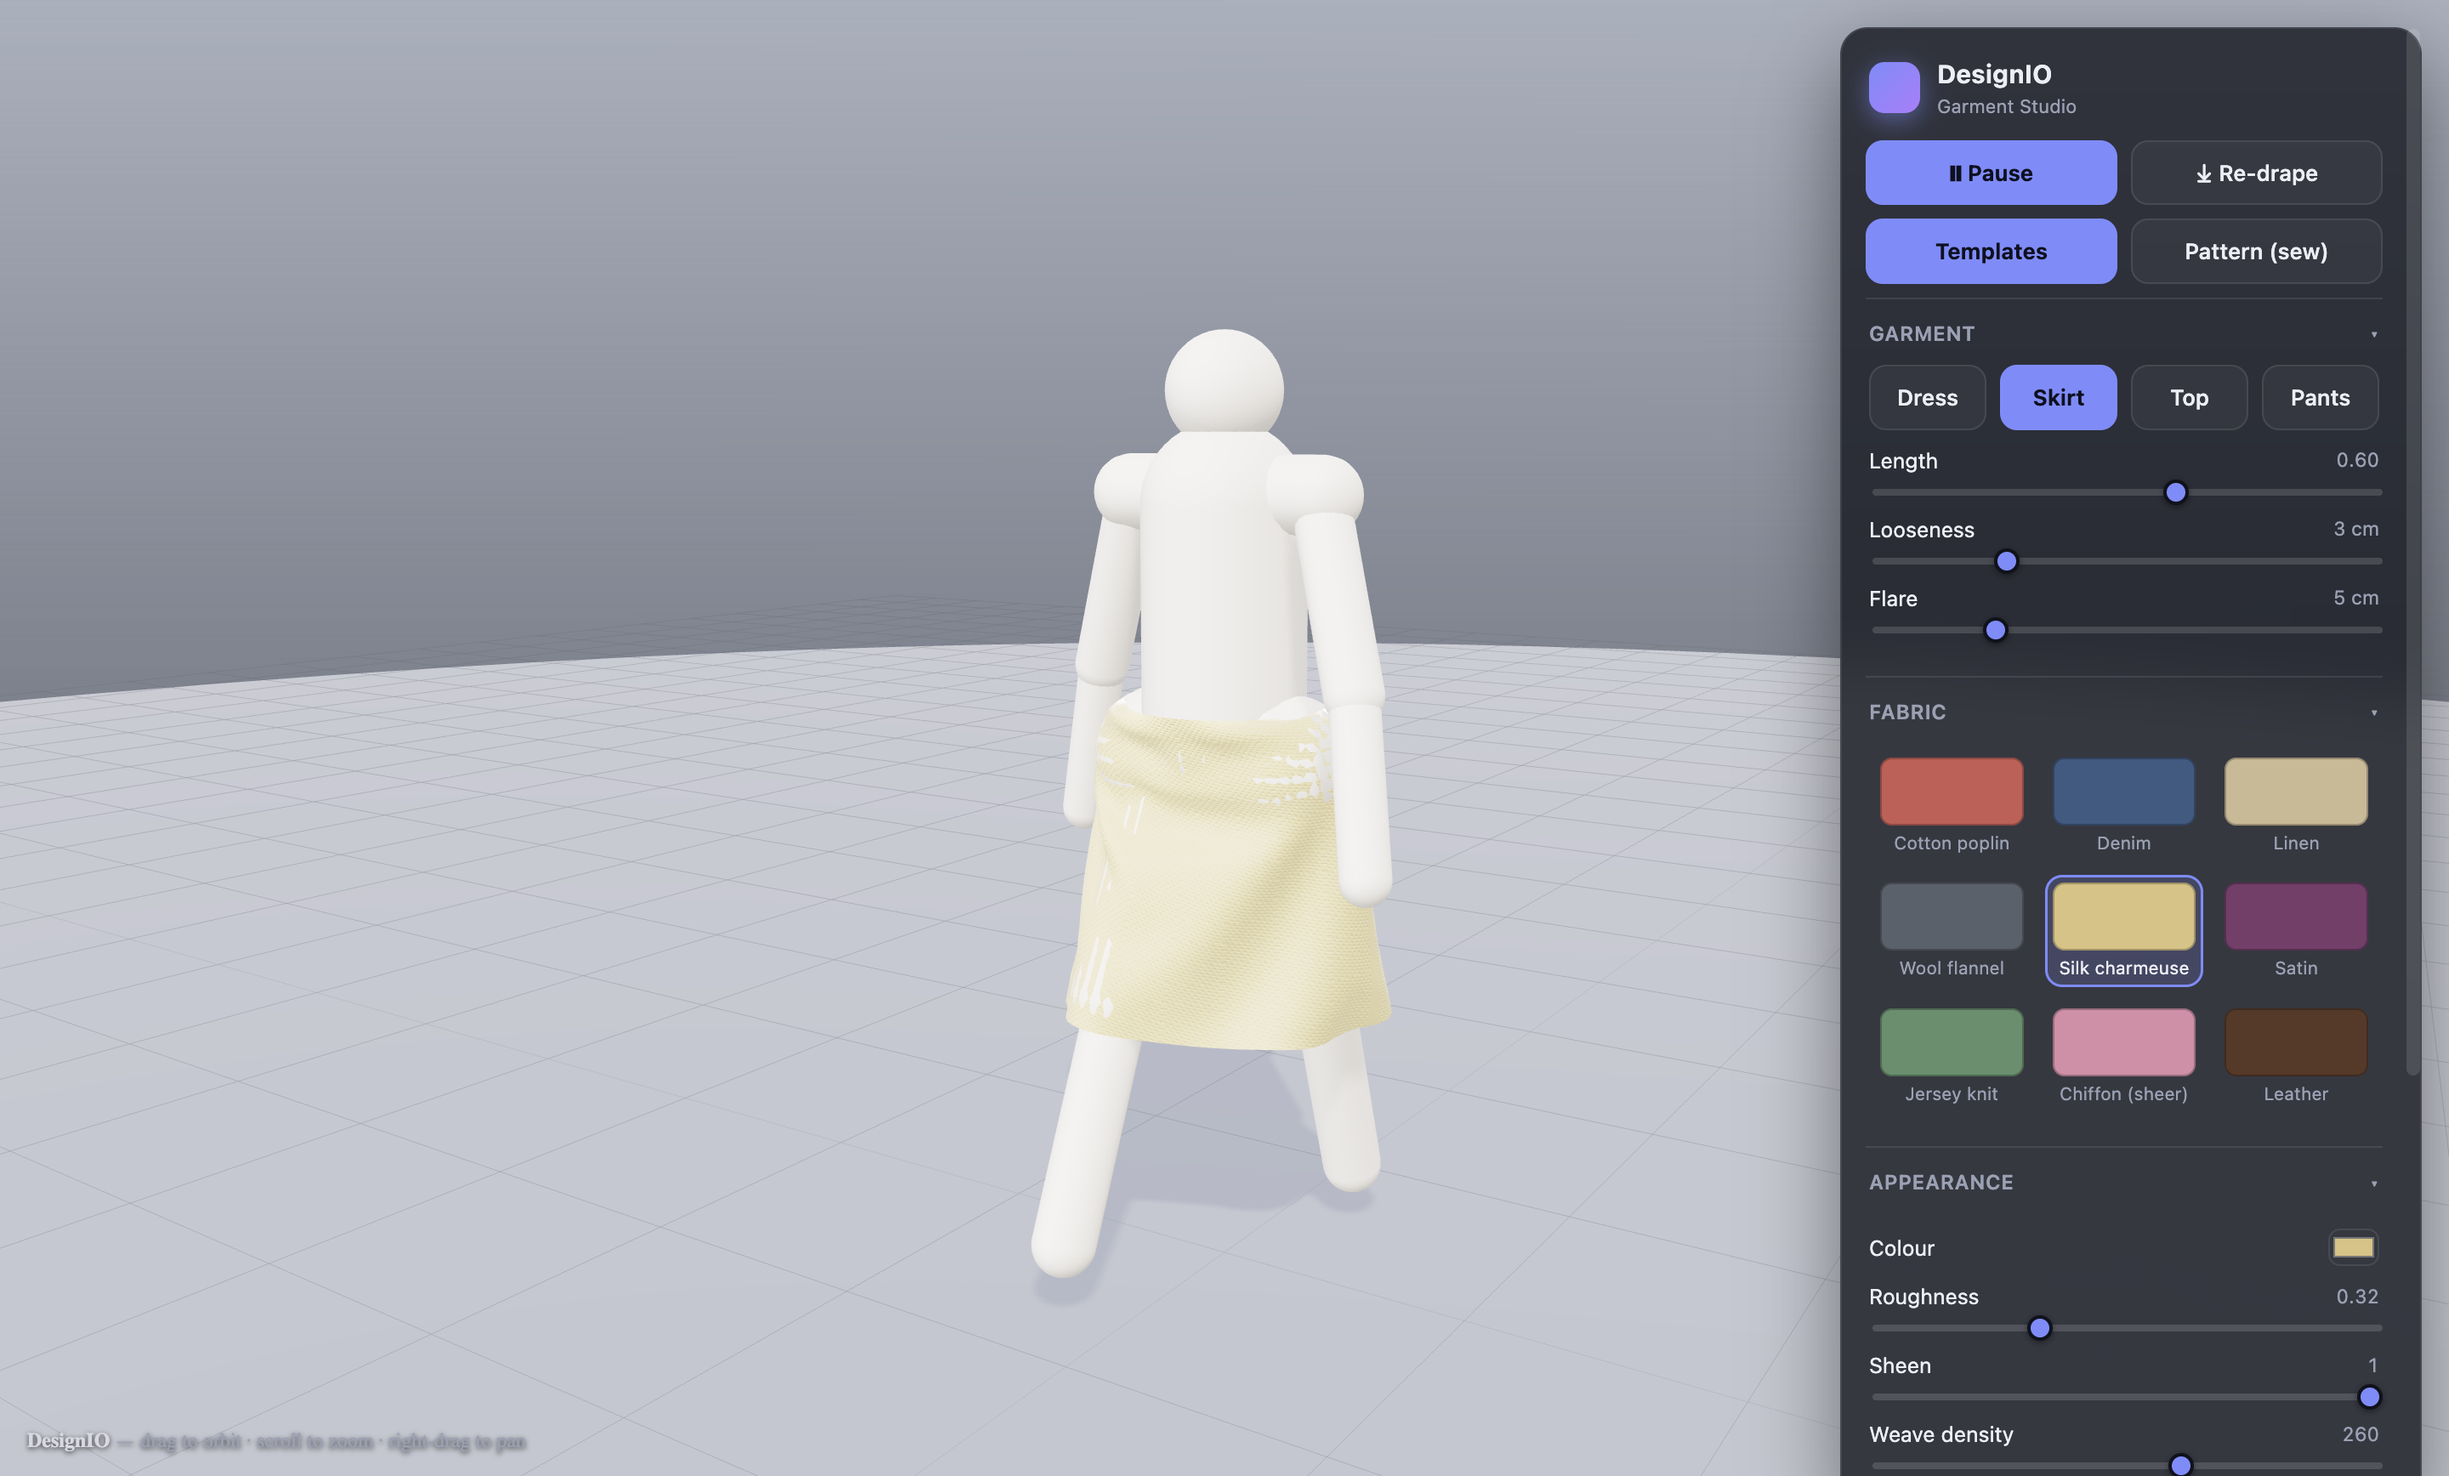
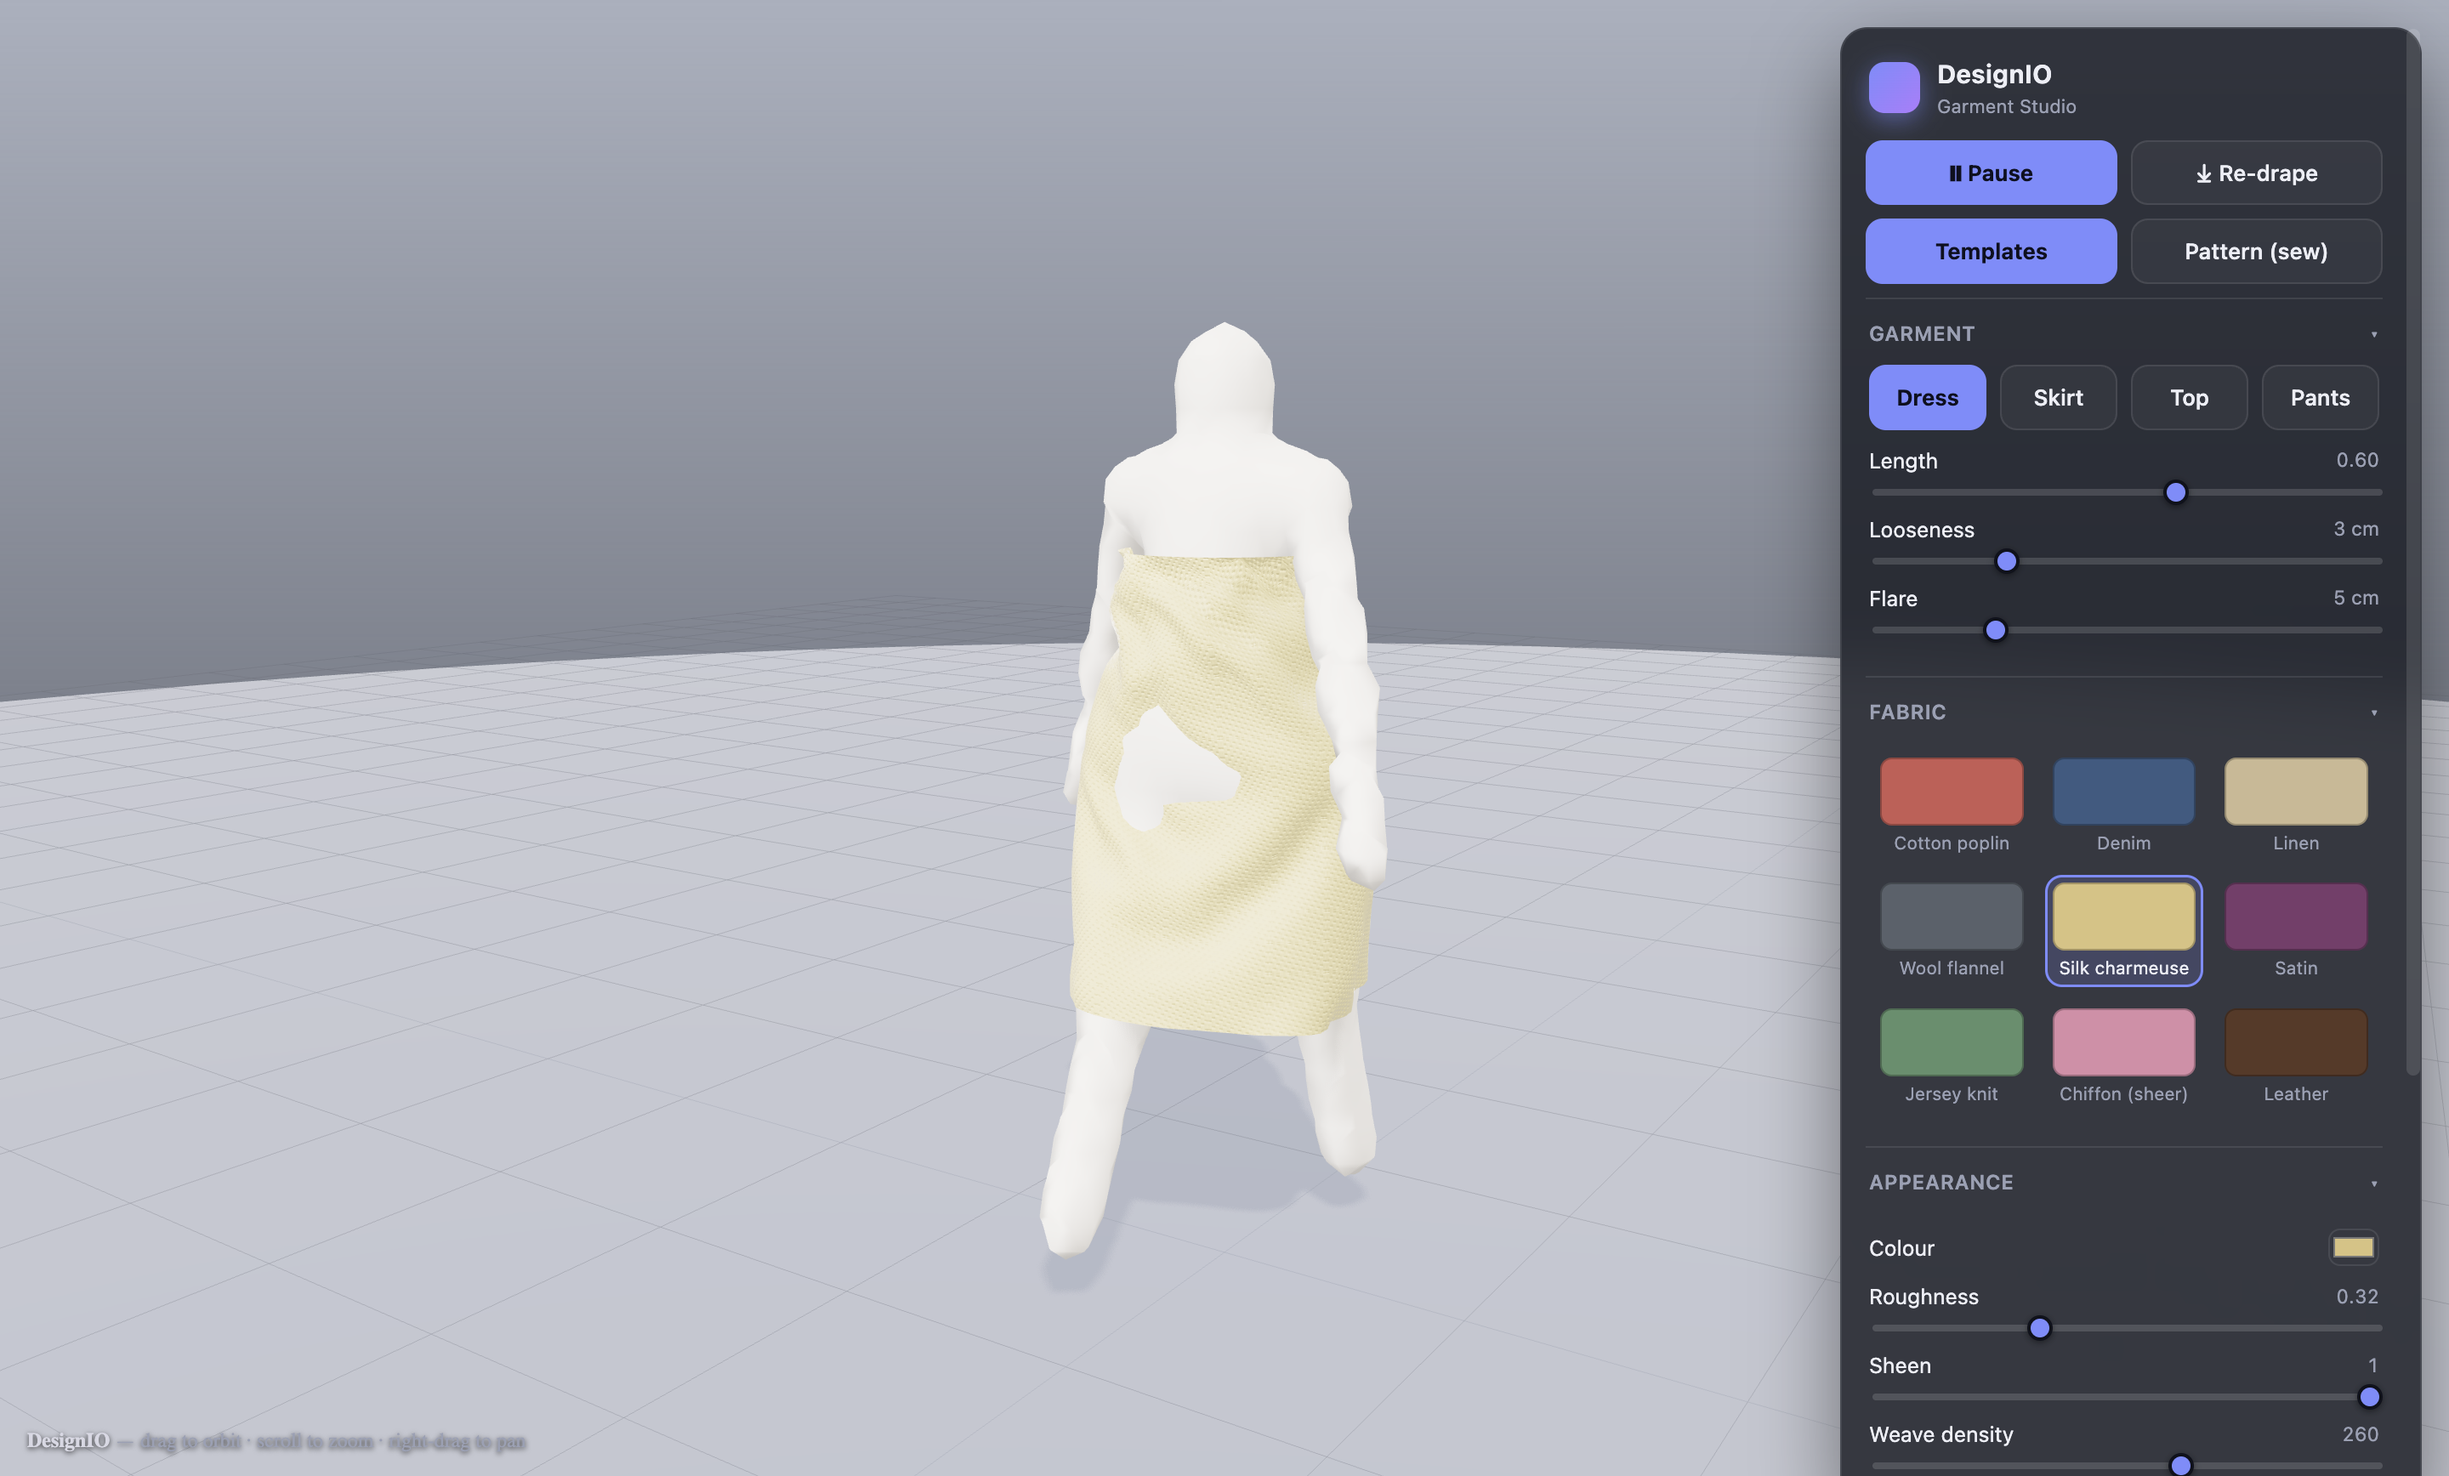
Real smooth mannequin: connected human body via metaballs
Replaces the disconnected capsule "pills" with an actual smooth, continuous
human body — much more like real garment software.

- avatar/BodyMesh.ts: a MarchingCubes metaball body. Balls are placed along the
  skeleton bones (sized from each bone's radius) so they blend into one smooth,
  connected form (head, torso, arms, hips, legs).
- avatar/Mannequin.ts: capsules remain the cloth colliders, but the *visual* is
  now the metaball body. It poses with the animation (limbs swing) and rebuilds
  only when the pose changes, so it's free when static.
- Small ease-of-design nudge in the hint bar; README + preview refreshed.

diff --git a/src/renderer/avatar/Mannequin.ts b/src/renderer/avatar/Mannequin.ts
@@ -1,5 +1,6 @@
 import * as THREE from 'three'
 import type { Capsule } from './colliders'
+import { BodyMesh } from './BodyMesh'
 
 /**
  * Key body measurements (metres) garments are fitted to. Radii are the enclosing
@@ -41,10 +42,8 @@ export type AnimationMode = 'static' | 'idle' | 'walk' | 'turn'
 
 export interface Mannequin {
   group: THREE.Group
-  /** Collision proxies the cloth solver tests against (mutated in place by update). */
   colliders: Capsule[]
   measurements: Measurements
-  /** Pose the limbs for the given time; garments react to the moved colliders. */
   update: (t: number, mode: AnimationMode, speed: number) => void
 }
 
@@ -55,41 +54,29 @@ interface Bone {
   restB: THREE.Vector3
   radius: number
   part: Part
-  sphere: boolean
-  mesh: THREE.Mesh
   collider: Capsule
 }
 
-const UP = new THREE.Vector3(0, 1, 0)
 const X = new THREE.Vector3(1, 0, 0)
 
-function placeMesh(mesh: THREE.Mesh, a: THREE.Vector3, b: THREE.Vector3, sphere: boolean): void {
-  if (sphere) {
-    mesh.position.copy(a)
-    return
-  }
-  mesh.position.copy(a).lerp(b, 0.5)
-  mesh.quaternion.setFromUnitVectors(UP, b.clone().sub(a).normalize())
-}
-
 /**
- * A procedural, poseable capsule mannequin that doubles as the cloth collision
- * proxy. Limbs (arms/legs) swing about their joints for idle/walk; the torso
- * stays fixed so garment anchors remain valid. "turn" is handled by the camera.
+ * A procedural humanoid. Metaballs along the skeleton give a smooth, connected
+ * body (the visible mannequin); capsules along the same skeleton are the cloth
+ * colliders. Limbs swing about their joints for idle/walk; the torso stays put so
+ * garment anchors remain valid. "turn" is handled by the camera.
  */
 export function buildMannequin(): Mannequin {
   const defs: { a: [number, number, number]; b: [number, number, number]; radius: number; part: Part }[] = [
-    { a: [0, 1.62, 0], b: [0, 1.62, 0], radius: 0.105, part: 'root' }, // head
-    { a: [0, 1.47, 0], b: [0, 1.55, 0], radius: 0.05, part: 'root' }, // neck
-    { a: [0, 1.02, 0], b: [0, 1.42, 0], radius: 0.15, part: 'root' }, // torso
-    { a: [-0.2, 1.44, 0], b: [0.2, 1.44, 0], radius: 0.07, part: 'root' }, // shoulders
-    { a: [-0.13, 0.96, 0], b: [0.13, 0.96, 0], radius: 0.13, part: 'root' }, // hips
-    { a: [-0.2, 1.42, 0], b: [-0.32, 1.1, 0.02], radius: 0.052, part: 'armL' },
-    { a: [-0.32, 1.1, 0.02], b: [-0.4, 0.8, 0.05], radius: 0.044, part: 'armL' },
-    { a: [-0.1, 0.94, 0], b: [-0.12, 0.5, 0.01], radius: 0.088, part: 'legL' },
-    { a: [-0.12, 0.5, 0.01], b: [-0.12, 0.06, 0.03], radius: 0.058, part: 'legL' }
+    { a: [0, 1.61, 0], b: [0, 1.66, 0], radius: 0.1, part: 'root' }, // head
+    { a: [0, 1.46, 0], b: [0, 1.55, 0], radius: 0.048, part: 'root' }, // neck
+    { a: [0, 1.0, 0], b: [0, 1.44, 0], radius: 0.15, part: 'root' }, // torso
+    { a: [-0.19, 1.44, 0], b: [0.19, 1.44, 0], radius: 0.075, part: 'root' }, // shoulders
+    { a: [-0.14, 0.98, 0], b: [0.14, 0.98, 0], radius: 0.14, part: 'root' }, // hips
+    { a: [-0.19, 1.43, 0], b: [-0.31, 1.1, 0.02], radius: 0.05, part: 'armL' },
+    { a: [-0.31, 1.1, 0.02], b: [-0.4, 0.82, 0.05], radius: 0.042, part: 'armL' },
+    { a: [-0.1, 0.98, 0], b: [-0.12, 0.52, 0.01], radius: 0.088, part: 'legL' },
+    { a: [-0.12, 0.52, 0.01], b: [-0.12, 0.08, 0.03], radius: 0.06, part: 'legL' }
   ]
-  // Mirror the arm + leg bones to the right side.
   const mirrored = defs.slice(5).map((d) => ({
     a: [-d.a[0], d.a[1], d.a[2]] as [number, number, number],
     b: [-d.b[0], d.b[1], d.b[2]] as [number, number, number],
@@ -100,29 +87,25 @@ export function buildMannequin(): Mannequin {
 
   const group = new THREE.Group()
   group.name = 'mannequin'
-  const material = new THREE.MeshStandardMaterial({ color: 0xd8d1c4, roughness: 0.9, metalness: 0 })
+  const material = new THREE.MeshStandardMaterial({ color: 0xd9d2c6, roughness: 0.85, metalness: 0 })
 
   const bones: Bone[] = []
   const colliders: Capsule[] = []
-
   for (const d of all) {
-    const restA = new THREE.Vector3(...d.a)
-    const restB = new THREE.Vector3(...d.b)
-    const sphere = restA.distanceTo(restB) < 1e-4
-    const mesh = sphere
-      ? new THREE.Mesh(new THREE.SphereGeometry(d.radius, 32, 24), material)
-      : new THREE.Mesh(new THREE.CapsuleGeometry(d.radius, restA.distanceTo(restB), 12, 20), material)
-    mesh.castShadow = true
-    mesh.receiveShadow = true
-    placeMesh(mesh, restA, restB, sphere)
-    group.add(mesh)
-
-    const collider: Capsule = { a: restA.clone(), b: restB.clone(), radius: d.radius }
+    const collider: Capsule = { a: new THREE.Vector3(...d.a), b: new THREE.Vector3(...d.b), radius: d.radius }
     colliders.push(collider)
-    bones.push({ restA, restB, radius: d.radius, part: d.part, sphere, mesh, collider })
+    bones.push({
+      restA: new THREE.Vector3(...d.a),
+      restB: new THREE.Vector3(...d.b),
+      radius: d.radius,
+      part: d.part,
+      collider
+    })
   }
 
-  // Joint pivots (where each limb rotates from).
+  const body = new BodyMesh(material)
+  group.add(body.object)
+
   const pivot: Record<Part, THREE.Vector3> = {
     root: new THREE.Vector3(),
     armL: new THREE.Vector3(-MEASUREMENTS.shoulderHalfX, MEASUREMENTS.shoulderY, 0),
@@ -133,6 +116,22 @@ export function buildMannequin(): Mannequin {
 
   const a = new THREE.Vector3()
   const b = new THREE.Vector3()
+  let lastKey = ''
+
+  const applyPose = (angle: Record<Part, number>): void => {
+    for (const bone of bones) {
+      a.copy(bone.restA)
+      b.copy(bone.restB)
+      const ang = angle[bone.part]
+      if (ang !== 0) {
+        const p = pivot[bone.part]
+        a.sub(p).applyAxisAngle(X, ang).add(p)
+        b.sub(p).applyAxisAngle(X, ang).add(p)
+      }
+      bone.collider.a.copy(a)
+      bone.collider.b.copy(b)
+    }
+  }
 
   const update = (t: number, mode: AnimationMode, speed: number): void => {
     let legAmp = 0
@@ -147,8 +146,7 @@ export function buildMannequin(): Mannequin {
       armAmp = 0.06
       freq = 0.9
     }
-    const phase = t * speed * freq
-    const s = Math.sin(phase)
+    const s = Math.sin(t * speed * freq)
     const angle: Record<Part, number> = {
       root: 0,
       legL: legAmp * s,
@@ -156,21 +154,17 @@ export function buildMannequin(): Mannequin {
       armL: -armAmp * s,
       armR: armAmp * s
     }
-
-    for (const bone of bones) {
-      a.copy(bone.restA)
-      b.copy(bone.restB)
-      const ang = angle[bone.part]
-      if (ang !== 0) {
-        const p = pivot[bone.part]
-        a.sub(p).applyAxisAngle(X, ang).add(p)
-        b.sub(p).applyAxisAngle(X, ang).add(p)
-      }
-      bone.collider.a.copy(a)
-      bone.collider.b.copy(b)
-      placeMesh(bone.mesh, a, b, bone.sphere)
-    }
+    const key = `${angle.legL.toFixed(4)},${angle.armL.toFixed(4)}`
+    if (key === lastKey) return // pose unchanged → skip rebuild (free when static)
+    lastKey = key
+    applyPose(angle)
+    body.rebuild(colliders)
   }
+
+  // Build the rest pose once so the body is visible immediately.
+  applyPose({ root: 0, legL: 0, legR: 0, armL: 0, armR: 0 })
+  body.rebuild(colliders)
+  lastKey = '0.0000,0.0000'
 
   return { group, colliders, measurements: MEASUREMENTS, update }
 }

diff --git a/src/renderer/avatar/BodyMesh.ts b/src/renderer/avatar/BodyMesh.ts
@@ -1,0 +1,63 @@
+import * as THREE from 'three'
+import { MarchingCubes } from 'three/examples/jsm/objects/MarchingCubes.js'
+import type { Capsule } from './colliders'
+
+// Field cube: local [-1,1] mapped by position + uniform scale S, centred on the
+// body. Metaballs are placed along the skeleton bones so they blend into one
+// smooth, connected body (instead of disconnected capsules).
+const RES = 48
+const ISO = 80
+const SUBTRACT = 12
+const CENTER = new THREE.Vector3(0, 0.88, 0)
+const S = 1.0
+// Per-ball strength for a target world radius R (iso radius ≈ sqrt(strength/ISO)).
+// Balls overlap along a bone, so we scale down to keep limbs close to R.
+const STRENGTH_MUL = 0.4
+const VISUAL_R = 1.1 // visual body a touch fuller than the collider radius
+
+/**
+ * A smooth, connected human body built from metaballs (marching cubes) placed
+ * along the mannequin skeleton. Rebuilt from the (posed) colliders so it moves
+ * with the animation.
+ */
+export class BodyMesh {
+  readonly object: MarchingCubes
+  private readonly f = new THREE.Vector3()
+  private readonly p = new THREE.Vector3()
+
+  constructor(material: THREE.Material) {
+    this.object = new MarchingCubes(RES, material, true, false, 250000)
+    this.object.isolation = ISO
+    this.object.position.copy(CENTER)
+    this.object.scale.setScalar(S)
+    this.object.castShadow = true
+    this.object.receiveShadow = true
+    this.object.frustumCulled = false
+  }
+
+  private toField(world: THREE.Vector3, out: THREE.Vector3): void {
+    out.set(
+      (world.x - CENTER.x) / (2 * S) + 0.5,
+      (world.y - CENTER.y) / (2 * S) + 0.5,
+      (world.z - CENTER.z) / (2 * S) + 0.5
+    )
+  }
+
+  /** Rebuild the metaball field from the current (posed) body capsules. */
+  rebuild(bones: Capsule[]): void {
+    const mc = this.object
+    mc.reset()
+    for (const bone of bones) {
+      const len = bone.a.distanceTo(bone.b)
+      const R = bone.radius * VISUAL_R
+      const strength = ISO * (R / (2 * S)) ** 2 * STRENGTH_MUL
+      const steps = Math.max(1, Math.ceil(len / (bone.radius * 0.6)))
+      for (let i = 0; i <= steps; i++) {
+        this.p.copy(bone.a).lerp(bone.b, steps === 0 ? 0 : i / steps)
+        this.toField(this.p, this.f)
+        mc.addBall(this.f.x, this.f.y, this.f.z, strength, SUBTRACT)
+      }
+    }
+    mc.update()
+  }
+}

diff --git a/src/renderer/index.html b/src/renderer/index.html
@@ -20,7 +20,7 @@
   <body>
     <div id="app"></div>
     <div class="dio-hint">
-      <b>DesignIO</b> — drag to orbit · scroll to zoom · right-drag to pan
+      <b>DesignIO</b> — pick a garment &amp; fabric in the panel → · drag to orbit · scroll to zoom
     </div>
     <script type="module" src="./main.ts"></script>
   </body>

diff --git a/README.md b/README.md
@@ -4,13 +4,13 @@ A personal, fully-3D clothing design tool — in the spirit of [CLO3D](https://w
 [Browzwear](https://browzwear.com/) — for designing your own clothes realistically and virtually.
 Built as a desktop app (Electron + Three.js + TypeScript).
 
-> **Status: Early build.** A real-time garment drapes on a dress-form mannequin in a studio scene with
-> live cloth physics. Pattern drafting, sewing 2D panels into 3D garments, and photoreal fabric detail
-> come next (see the roadmap).
+> **Status: Working build.** Design garments (templates or sewn from 2D patterns) on a **smooth human
+> mannequin**, dress them in real fabrics with live cloth physics, animate the body, and export the
+> result — all in a studio scene.
 
-![DesignIO — a fitted cotton dress draped on the dress-form mannequin](docs/preview.png)
+![DesignIO — a fitted cotton dress draped on the smooth human mannequin](docs/preview.png)
 
-*Live capture: a fitted sleeveless dress simulated on the mannequin in the studio.*
+*Live capture: a fitted dress simulated on the smooth (metaball) mannequin in the studio.*
 
 ![DesignIO — macro close-up of woven satin showing the weave and sheen](docs/closeup.png)
 
@@ -18,7 +18,8 @@ Built as a desktop app (Electron + Three.js + TypeScript).
 
 ## What you can do right now
 
-- Orbit / zoom / pan around a dress-form mannequin in a neutral studio scene.
+- Orbit / zoom / pan around a **smooth human mannequin** (a continuous body, built procedurally with
+  metaballs) in a neutral studio scene.
 - Pick a **garment template** — **dress, skirt, top, or pants** — and tweak its **length, looseness,
   and flare**; it rebuilds and re-drapes on the body (pants simulate as two legs).
 - Each garment **drapes with real folds** — an XPBD cloth solver with body-capsule collision +
